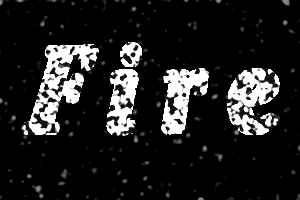
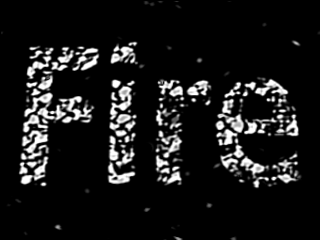
fire demo finalized

diff --git a/js/demo/fire/fire.js b/js/demo/fire/fire.js
@@ -7,29 +7,32 @@ include('ge/noise.js');
 		name: 'Fire',
 		settings: {
 			images: { label: 'Image', value: 'fire.png', type: 'string', link: null },
-			motion: { label: 'Motion', value: 0.4, min:0, max:1.0, step: 0.005, normalized:true, type: 'float', link: null },
-			feedback: { label: 'Feedback', value: 0.7, min:0, max:2.0, step: 0.005, normalized:true, type: 'float', link: null },
-			cooling: { label: 'Cooling', value: 0.1, min:0, max:0.4, step: 0.005, normalized:true, type: 'float', link: null },
-			color: { label: 'Color', value: 0, min:0, max:1, step: 1,type: 'int', link: null }
+			motion: { label: 'Motion', value: 0.35, min:0, max:1.0, step: 0.01, normalized:true, type: 'float', link: null },
+			feedback: { label: 'Feedback', value: 0.5, min:0, max:1.0, step: 0.01, normalized:true, type: 'float', link: null },
+			cooling: { label: 'Cooling', value: 0.02, min:0, max:1.0, step: 0.01, normalized:true, type: 'float', link: null },
+			range: { label: 'Color mapping', value: 0.15, min:0, max:1, step: 0.01,type: 'float', link: null },
+			color: { label: 'Color', value: 0, min:0, max:1, step: 1,type: 'int', link: null },
+
+			color1: { label: 'Color1', value: 0.10, min:0, max:1, step: 0.01,type: 'float', link: null },
+			color2: { label: 'Color2', value: 0.30, min:0, max:1, step: 0.01,type: 'float', link: null },
+			color3: { label: 'Color3', value: 0.40, min:0, max:1, step: 0.01,type: 'float', link: null },
+			color4: { label: 'Color4', value: 0.50, min:0, max:1, step: 0.01,type: 'float', link: null },
+			color5: { label: 'Color5', value: 0.60, min:0, max:1, step: 0.01,type: 'float', link: null }
 		},
 
 		fbmSize: 50,
 		images: [],
 		// create 2 heat maps
 		heatMaps: [null, null, null],
-		// this.colors = [
-		// 	[0xff,0x80,0x80], [0x80,0xff,0x80], [0x80,0x80,0xff], [0xff,0xff,0x80],
-		// 	[0x80,0xff,0xff], [0x80,0x80,0x80], [0xff,0x80,0xff], [0xff,0xff,0xff]
-		// ];
 		frontBuffer: { context:null, buffer: null },
 		backBuffer: { context:null, buffer: null },
-		mode: 0,
 		noise: null,
 		filter: new Fn.Filter([
-			[ 0,  0,  0],
-			[ 1,  3,  1],
-			[ 3, 7,  3]
+			[ 0,  1,  0],
+			[ 0,  3,  0],
+			[ 2,  5,  2]
 		]),
+		backgroundColor: [0.1, 0.15, 0.2],
 
 		initialize: async function initialize() {
 			// create list of images
@@ -47,7 +50,6 @@ include('ge/noise.js');
 					this.images.push({key:res[i].node.alt, value: res[i].node});
 				}
 			}
-			// todo: change control into combobox
 			var ctrl = DemoMgr.controls.settings.rows["images"].cells["value"];
 			var rowColumn = ctrl.id.split('#');
 			var combobox = glui.Control.create('images', {
@@ -58,27 +60,25 @@ include('ge/noise.js');
 				'key-field': 'key',
 				'values': 'DemoMgr.demo.images',
 				'row-template': {
-					'value': { 'type': 'Label', 'style': { 'background': '#60c0a0', 'border':'#60c0a0 1px inset' } },
+					'key': { 'type': 'Label', 'style': { 'background': '#60c0a0', 'border':'#60c0a0 1px inset' } },
 				}
 			}, null, null);
 			combobox.dataBind(ctrl.dataSource, ctrl.dataField);
-			combobox.row = ctrl.row;
-			combobox.column = ctrl.column;
-			ctrl.row.cells[rowColumn[0]] = combobox;
-			ctrl.column.cells[rowColumn[1]] = combobox;
-			DemoMgr.controls.settings.remove(ctrl);
-			DemoMgr.controls.settings.add(combobox);
+			DemoMgr.controls.settings.replace(DemoMgr.controls.settings.rows["images"].cells["value"], combobox);
+			combobox.setRenderer(glui.mode, glui.mode == glui.Render2d ? glui.renderingContext2d : glui.renderingContext3d);
 
+			this.colors = [this.settings.color1, this.settings.color2, this.settings.color3, this.settings.color4, this.settings.color5];
+			this.adjustColors();
 			this.noise = new Noise();
 			//DemoMgr.controls.settings.rows["images"].cells["value"].setItems(this.images.map(v => v.alt));
 			var canvas = document.createElement('canvas');
-			canvas.width = Math.floor(glui.width/4);
-			canvas.height = Math.floor(glui.height/4);
-			canvas.style.backgroundColor = 'rgb(0, 0, 0)';
+			canvas.width = Math.floor(glui.width/2);
+			canvas.height = Math.floor(glui.height/2);
+			canvas.style.backgroundColor = 'rgb(255, 255, 255)';
 			this.frontBuffer.context = canvas.getContext('2d');
 			this.frontBuffer.buffer = this.frontBuffer.context.getImageData(0, 0, canvas.width, canvas.height);
 			var canvas = document.createElement('canvas');
-			canvas.style.backgroundColor = 'rgb(0, 0, 0)';
+			canvas.style.backgroundColor = 'rgb(255, 255, 255)';
 			this.backBuffer.context = canvas.getContext('2d');
 			this.setImage();
 			this.heatMaps[1] = this.createHeatMap();
@@ -94,30 +94,29 @@ include('ge/noise.js');
 			var ix = 0;
 			var cooling = 1 - this.settings.cooling.value;
 			var jx = 0;
+			this.maxR = 0;
+			this.maxHeat = 0;
 			for (var j=0; j<source.height; j++) {
 				for (var i=0; i<source.width; i++) {
 					var avg = this.filter.apply(source.data, source.width, source.height, 1, i, j, 0);
-					var r = this.noise.fbm3d(4*i/source.width, 4*j/source.height, 0.01*this.settings.motion.value*frame, 3, 0.5, 4.01, 1.3, 3.95) + 0.1*Math.random();
-					var motion = this.settings.motion.value;
-					var heat = r*(avg + Fn.lerp(this.settings.feedback.value, 0.25, motion*motion) * this.heatMaps[2].data[ix]);
-					heat = cooling * heat;
-					if (this.mode) {
-						heat = 1 - heat;
-					}
+					var r = this.noise.fbm3d(4*i/source.width, 4*j/source.height, 0.01*this.settings.motion.value*frame, 3, 0.5, 8.01, 1.125, 3.95);
+					this.maxR = Math.max(r, this.maxR);
+					var heat = Fn.lerp(1.0, r, this.settings.motion.value)*(avg + (1+this.settings.feedback.value)*this.heatMaps[2].data[ix]);
+					heat *= cooling;
 					target.data[ix] = heat;
 					this.maxHeat = Math.max(this.maxHeat, heat);
-					var rgba = this.heatToColor(heat);
-					this.backBuffer.buffer.data[4*ix] = rgba[0];
-					this.backBuffer.buffer.data[4*ix+1] = rgba[1];
-					this.backBuffer.buffer.data[4*ix+2] = rgba[2];
+					var rgba = this.heatToColor(heat*this.settings.range.value);
+					this.backBuffer.buffer.data[4*ix] = Math.floor(255*Fn.lerp(this.backgroundColor[0], rgba[0], rgba[3]));
+					this.backBuffer.buffer.data[4*ix+1] = Math.floor(255*Fn.lerp(this.backgroundColor[1], rgba[1], rgba[3]));
+					this.backBuffer.buffer.data[4*ix+2] = Math.floor(255*Fn.lerp(this.backgroundColor[2], rgba[2], rgba[3]));
 					//this.backBuffer.buffer.data[4*ix+3] = rgba[3];
 					ix++;
 				}
-				jx +=source.width;
+				jx += source.width;
 			}
 			this.backBuffer.context.putImageData(this.backBuffer.buffer, 0, 0);
-			//this.frontBuffer.context.clearRect(0, 0, this.frontBuffer.buffer.width, this.frontBuffer.buffer.height);
 			this.frontBuffer.context.drawImage(this.backBuffer.context.canvas, 0, 0, this.backBuffer.buffer.width, this.backBuffer.buffer.height, 0, 0, this.frontBuffer.buffer.width, this.frontBuffer.buffer.height);
+			//this.frontBuffer.context.drawImage(this.backBuffer.context.canvas, 0, 0, this.backBuffer.buffer.width, this.backBuffer.buffer.height, this.frontBuffer.buffer.width/4, this.frontBuffer.buffer.height/4, this.frontBuffer.buffer.width/2, this.frontBuffer.buffer.height/2);
 		},
         render: function render(frame, dt) {
 			glui.renderingContext2d.save();
@@ -126,8 +125,8 @@ include('ge/noise.js');
 			glui.renderingContext2d.font = '14px Consolas';
 			glui.renderingContext2d.fillStyle = "#ffe080";
 			glui.renderingContext2d.textAlign = "left";
-			glui.renderingContext2d.fillText("mode:" + this.mode, 0, glui.height - 2);
-			glui.renderingContext2d.fillText("heat:" + this.maxHeat, 100, glui.height - 2);
+			glui.renderingContext2d.fillText("heat:" + this.maxHeat.toFixed(2), 4, glui.height - 4);
+			glui.renderingContext2d.fillText("r:" + this.maxR.toFixed(2), 100, glui.height - 4);
 			glui.renderingContext2d.restore();
 		},
 		setImage: function setImage() {
@@ -163,21 +162,10 @@ include('ge/noise.js');
 			}
 			return heatMap;
 		},
-		processInputs: function processInputs(e) {
-			if ((GE.inputs.mbuttons & 2) != 0) {
-				Dbg.prln('mouse: ' + GE.inputs.mpos);
-				var mode = this.mode & 0x01;
-				this.mode &= 0xfe;
-				this.mode |= 1 - mode;
-				GE.inputs.mbuttons &= 253;
-			}
-			this.mode &= 0xfd;
-			if (GE.inputs.keys[16] != 0) {
-				this.mode |= 0x02;
-			}
-		},
+		colors: null,
 		onchange: function onchange(setting) {
-			switch (setting.dataField) {
+			var label = setting.control.dataSource.label;
+			switch (label) {
 				case 'resolution':
 					this.onresize();
 					break;
@@ -185,39 +173,56 @@ include('ge/noise.js');
 					this.setImage();
 					break;
 			}
+			if (label && label.startsWith('Color')) {
+				var ix = label.charCodeAt(5) - 48;
+				if (ix) {
+					this.adjustColors();
+				}
+			}
 		},
+		adjustColors: function() {
+			var tab = this.colorTables[this.settings.color.value];
+			var rest = 1, previous = 0;
+			for (var i=0; i<this.colors.length; i++) {
+				var v = rest*this.colors[i].value;
+				rest -= v;
+				tab[tab.length-2-i][0] = v + previous;
+				previous += v;
+			}
+			console.log(tab.map( x => x[0]));
+
+		},
+		colorTables: [
+			[
+				[1.00, 1.0, 1.0, 1.0, 1.0],
+				[0.50, 1.0, 1.0, 0.8, 1.0],
+				[0.50, 1.0, 0.8, 0.6, 1.0],
+				[0.40, 0.8, 0.5, 0.4, 0.9],
+				[0.30, 0.5, 0.3, 0.3, 0.8],
+				[0.20, 0.3, 0.3, 0.3, 0.7],
+				[0.00, 0.0, 0.0, 0.0, 0.0]
+			],
+			[
+				[1.00, 1.0, 1.0, 1.0, 1.0],
+				[0.50, 0.5, 1.0, 0.5, 1.0],
+				[0.50, 1.0, 0.5, 0.5, 1.0],
+				[0.40, 0.0, 0.0, 0.0, 1.0],
+				[0.30, 0.0, 0.0, 1.0, 1.0],
+				[0.20, 0.0, 1.0, 0.0, 1.0],
+				[0.10, 1.0, 0.0, 0.0, 1.0]
+			]
+		],
 		heatToColor: function heatToColor(v) {
 			var tix = this.settings.color.value;
-			var tbl = [
-				[
-					[1.00, 255, 255, 255, 255],
-					[0.60, 255, 255, 255, 255],
-					[0.36, 255, 240, 128, 255],
-					[0.22, 240,  64,  64, 192],
-					[0.13, 128,  64,  64, 128],
-					[0.07,  64,  64,  64,  64],
-					[0.00,   0,   0,   0,   0]
-				],
-				[
-					[1.00, 255, 255, 255, 255],
-					[0.50, 255, 255, 255, 255],
-					[0.25, 128, 160, 240, 255],
-					[0.12,  64,  64, 192, 128],
-					[0.06,  64,  64,  64,  64],
-					[0.00,   0,   0,   0,   0]
-				]
-			];
-			
 			var col = [0, 0, 0, 0];
-			var tab = tbl[tix];
+			var tab = this.colorTables[tix];
 			var i0 = tab[0];
-			v /= 100;
 			for (var i=1; i<tab.length; i++) {
 				var i1 = tab[i];
 				if (v > i1[0]) {
 					var r = (v - i1[0])/(i0[0] - i1[0]);
 					for (var j=0; j<4; j++) {
-						col[j] = Math.floor(r*(i0[j+1] - i1[j+1]) + i1[j+1]);
+						col[j] = r*(i0[j+1] - i1[j+1]) + i1[j+1];
 					}
 					break;
 				}
